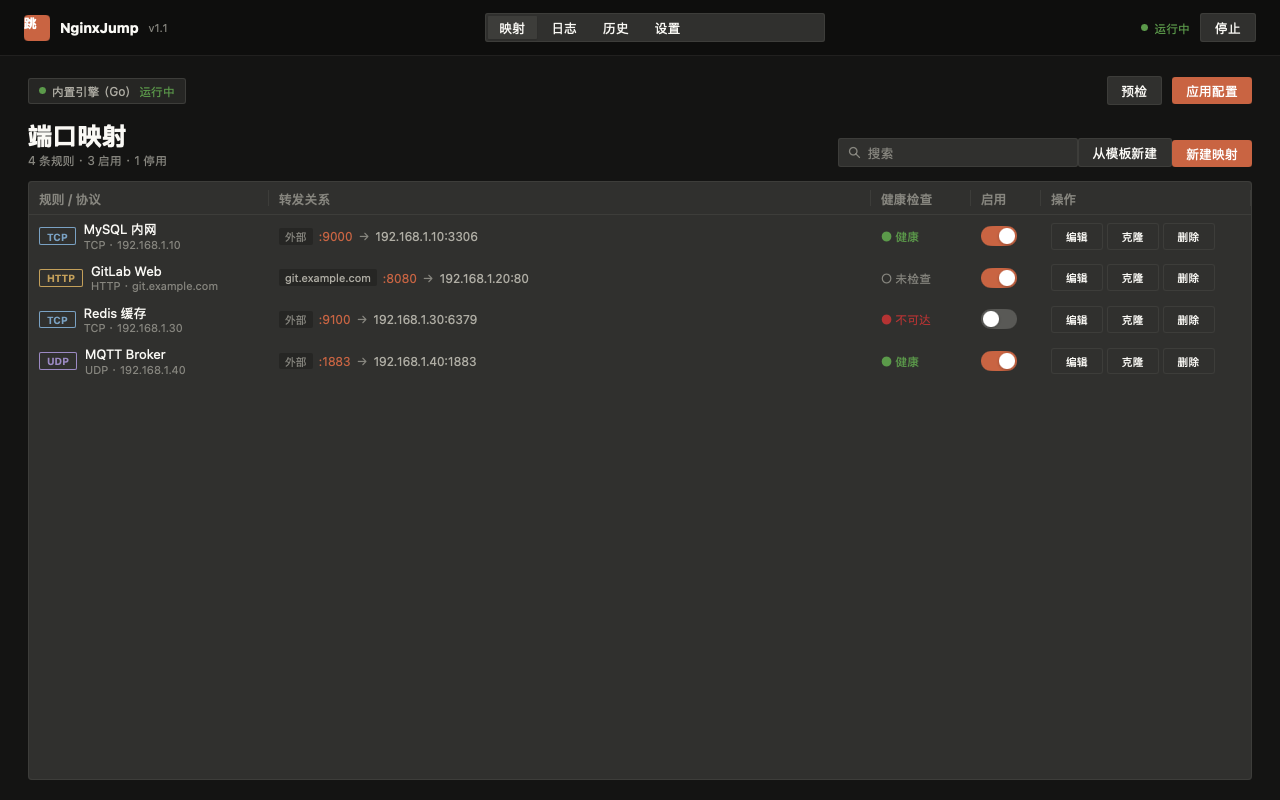
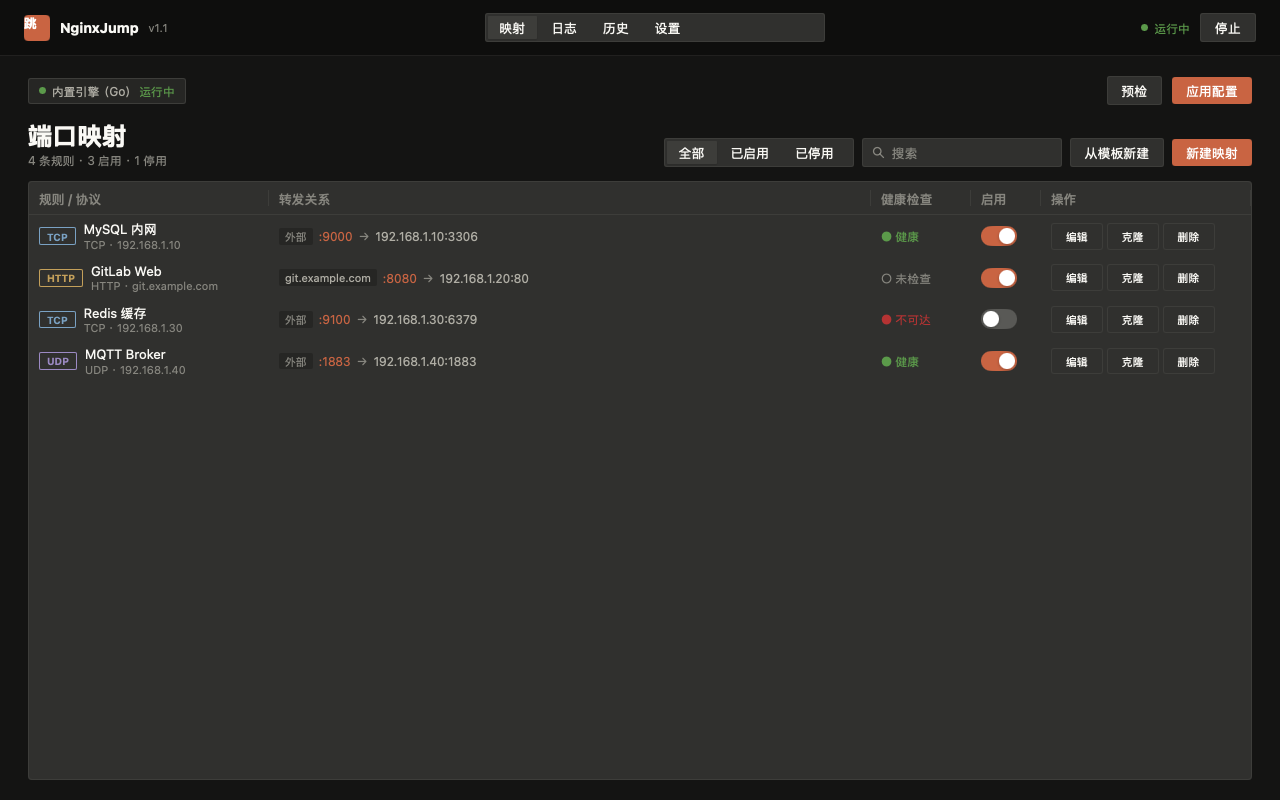
feat(ui): 状态筛选、行内错误提示、工具栏分组；docs: 引擎评估结论

Changed region(s): [[0.5, 0.1562, 0.7188, 0.2188], [0.8125, 0.1562, 0.9688, 0.2188]]

diff --git a/internal/ui/view.go b/internal/ui/view.go
@@ -19,8 +19,9 @@ import (
 type View struct {
 	App *appt.App
 
-	query string
-	table ui.ListState
+	query  string
+	filter int
+	table  ui.ListState
 
 	// The forms' own state, which the app's state does not need to know
 	// about until it is saved.
@@ -244,7 +245,7 @@ func (v *View) mappingsPage(c *ui.Context, t Tokens) {
 	a := v.App
 	mappings, _, _, _, _, _, busy, _ := a.Snapshot()
 
-	filtered := filterMappings(mappings, v.query)
+	filtered := filterMappings(mappings, v.query, v.filter)
 
 	ui.Column(c).Fill().Padding(20, 28).Gap(14).Children(func() {
 		v.actionRow(c, t)
@@ -262,20 +263,23 @@ func (v *View) mappingsPage(c *ui.Context, t Tokens) {
 					FontSize(12).TextColor(t.Muted)
 			})
 			ui.Spacer(c)
-			search := ui.SearchField(c, &v.query).Label("搜索规则").Width(240).
-				Tooltip("按名称、域名、端口搜索（⌘F）")
-			if v.focusSearch {
-				search.AutoFocus()
-				v.focusSearch = false
-			}
-			v.aiEntry(c, t)
-			if ui.Button(c, "从模板新建").Disabled(busy).Clicked() {
-				a.SetTemplatePicker(true)
-			}
-			if ui.PrimaryButton(c, "新建映射").Disabled(busy).
-				Tooltip("新建一条映射（⌘N）").Clicked() {
-				a.OpenForm(nil)
-			}
+			ui.Row(c).Gap(8).AlignItems(ui.Center).Children(func() {
+				ui.Segmented(c, &v.filter, "全部", "已启用", "已停用").Label("筛选").Width(190)
+				search := ui.SearchField(c, &v.query).Label("搜索规则").Width(200).
+					Tooltip("按名称、域名、端口搜索（⌘F）")
+				if v.focusSearch {
+					search.AutoFocus()
+					v.focusSearch = false
+				}
+				v.aiEntry(c, t)
+				if ui.Button(c, "从模板新建").Disabled(busy).Clicked() {
+					a.SetTemplatePicker(true)
+				}
+				if ui.PrimaryButton(c, "新建映射").Disabled(busy).
+					Tooltip("新建一条映射（⌘N）").Clicked() {
+					a.OpenForm(nil)
+				}
+			})
 		})
 
 		if len(mappings) == 0 {
@@ -318,7 +322,13 @@ func (v *View) mappingsPage(c *ui.Context, t Tokens) {
 				}
 			}).Grow(1).Children(func() {
 				if len(filtered) == 0 {
-					ui.Text(c, "没有匹配的规则").FontSize(12).TextColor(t.Muted).Padding(14)
+					hint := "没有匹配的规则"
+					if len(mappings) == 0 {
+						hint = ""
+					}
+					if hint != "" {
+						ui.Text(c, hint).FontSize(12).TextColor(t.Muted).Padding(14)
+					}
 				}
 			})
 		})
@@ -348,21 +358,27 @@ func (v *View) nameCell(c *ui.Context, t Tokens, m model.Mapping) {
 				// The dot says whether the rule is listening right now. It
 				// is only drawn once the engine has been applied to: before
 				// that, "not listening" is the expected state, not news.
+				dot := t.Muted
+				hint := ""
 				if v.App.EngineApplied() {
-					dot := t.Muted
-					hint := "未在监听"
-					if !m.Enabled {
+					switch {
+					case !m.Enabled:
 						hint = "已停用"
-					} else if listening {
+					case listening:
 						dot, hint = t.Success, "监听中"
-					} else if problem == "" || problem == "未应用" {
-						dot, hint = t.Muted, "未应用"
-					} else {
+					case problem == "" || problem == "未应用":
+						hint = "改动还没应用"
+					default:
 						dot, hint = t.Danger, problem
 					}
 					ui.Box(c).Size(5, 5).Radius(3).Background(dot).Tooltip(hint)
 				}
 				ui.Text(c, sub).FontSize(11).TextColor(t.Muted).SingleLine()
+				// A rule that cannot listen says why in the row itself:
+				// a tooltip is no help when the port is already taken.
+				if v.App.EngineApplied() && m.Enabled && !listening && problem != "" && problem != "未应用" {
+					ui.Text(c, problem).FontSize(10).TextColor(t.Danger).SingleLine()
+				}
 			})
 		})
 	})
@@ -479,20 +495,29 @@ func (v *View) emptyState(c *ui.Context, t Tokens, title, hint string) {
 	})
 }
 
-// filterMappings keeps the rules whose name, host or port matches the
-// query.
-func filterMappings(all []model.Mapping, query string) []model.Mapping {
+// filterMappings keeps the rules the search and the filter let through.
+func filterMappings(all []model.Mapping, query string, filter int) []model.Mapping {
 	q := strings.ToLower(strings.TrimSpace(query))
-	if q == "" {
-		return all
-	}
 	out := make([]model.Mapping, 0, len(all))
 	for _, m := range all {
-		hay := strings.ToLower(fmt.Sprintf("%s %s %s %d %d %s",
-			m.Name, m.ServerNames, m.UpstreamHost, m.ListenPort, m.UpstreamPort, m.Protocol))
-		if strings.Contains(hay, q) {
-			out = append(out, m)
+		switch filter {
+		case 1:
+			if !m.Enabled {
+				continue
+			}
+		case 2:
+			if m.Enabled {
+				continue
+			}
 		}
+		if q != "" {
+			hay := strings.ToLower(fmt.Sprintf("%s %s %s %d %d %s",
+				m.Name, m.ServerNames, m.UpstreamHost, m.ListenPort, m.UpstreamPort, m.Protocol))
+			if !strings.Contains(hay, q) {
+				continue
+			}
+		}
+		out = append(out, m)
 	}
 	return out
 }

diff --git a/internal/appt/actions.go b/internal/appt/actions.go
@@ -320,6 +320,42 @@ func (a *App) CopyAddress(m model.Mapping) error {
 	return nil
 }
 
+// SetMappingsEnabled turns several mappings on or off.
+func (a *App) SetMappingsEnabled(ids []string, on bool) error {
+	var firstErr error
+	done := 0
+	for _, id := range ids {
+		if err := a.SetMappingEnabled(id, on); err != nil && firstErr == nil {
+			firstErr = err
+			continue
+		}
+		done++
+	}
+	a.Log.Info("批量%s %d 条映射", map[bool]string{true: "启用", false: "停用"}[on], done)
+	if firstErr != nil {
+		return fmt.Errorf("%d 条中有 %d 条失败：%v", len(ids), len(ids)-done, firstErr)
+	}
+	return nil
+}
+
+// DeleteMappings removes several mappings.
+func (a *App) DeleteMappings(ids []string) error {
+	var firstErr error
+	done := 0
+	for _, id := range ids {
+		if err := a.DeleteMapping(id); err != nil && firstErr == nil {
+			firstErr = err
+			continue
+		}
+		done++
+	}
+	a.Log.Info("批量删除 %d 条映射", done)
+	if firstErr != nil {
+		return fmt.Errorf("%d 条中有 %d 条失败：%v", len(ids), len(ids)-done, firstErr)
+	}
+	return nil
+}
+
 // CloneMapping copies a mapping under a new name.
 func (a *App) CloneMapping(id string) error {
 	m, err := a.Store.GetMapping(id)
